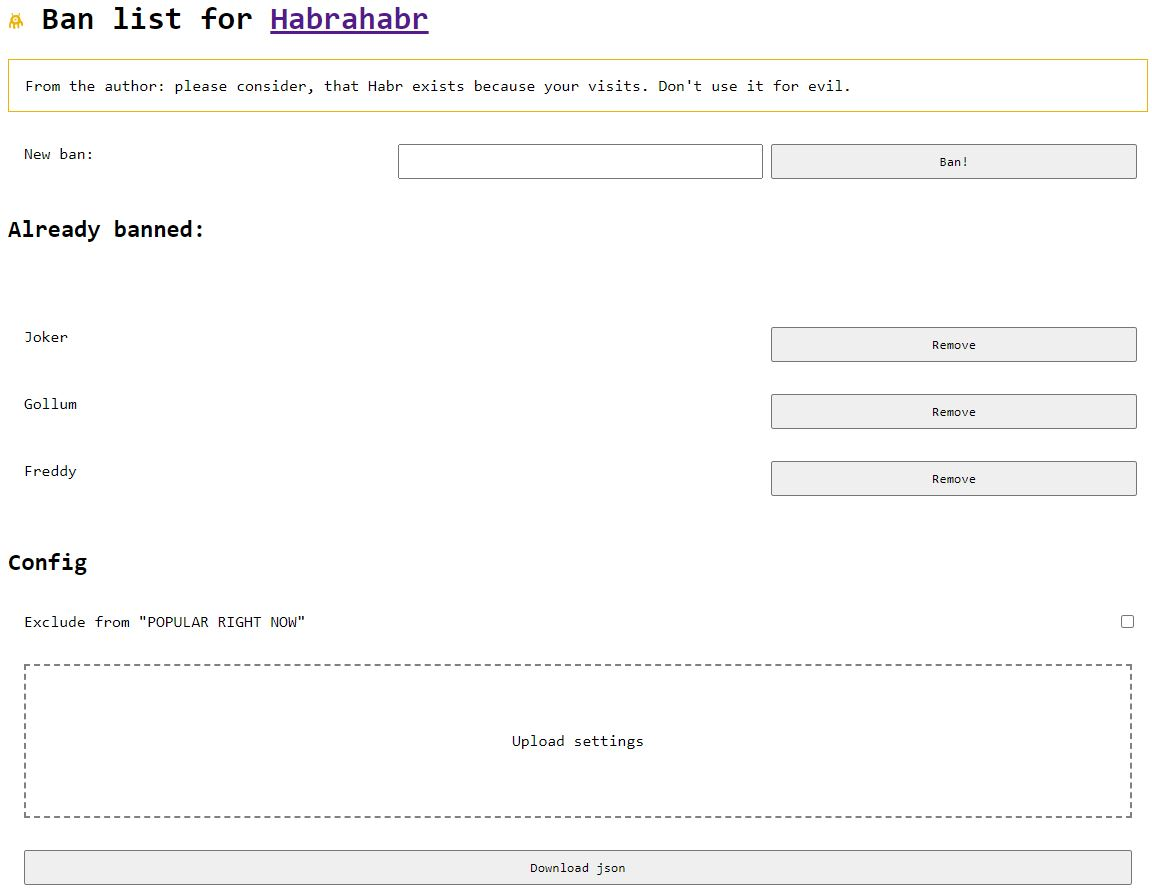
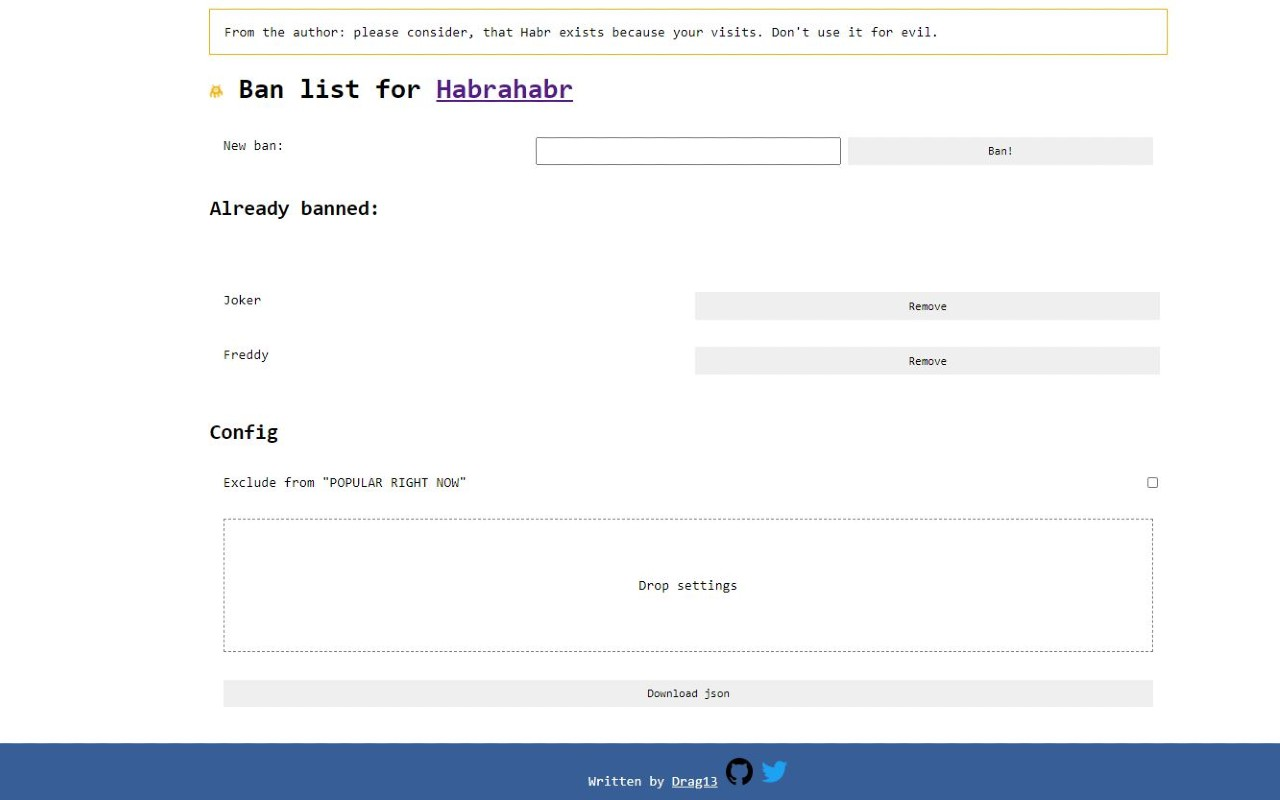
Add some responsive for the app

diff --git a/src/options.html b/src/options.html
@@ -26,14 +26,48 @@
             margin-left: auto;
             padding-top: 1em;
             padding-bottom: 1em;
-            padding-left: 1em;
             flex: 1;
+        }
+
+        .content {
+            padding: 0 1em;
+        }
+
+        .notice {
+            border: 1px solid #eeb30b;
         }
 
         .ban-list {
             list-style: none;
             text-align: left;
             padding-left: 0;
+        }
+
+        .ban-list>li {
+            padding-top: 2em;
+        }
+
+        .section {
+            padding: 1em;
+        }
+
+        .drop-area {
+            height: 150px;
+            border: 2px dashed gray;
+            display: flex;
+            align-items: center;
+            justify-content: center;
+        }
+
+        .footer {
+            text-align: center;
+            background-color: #375e97;
+            padding: 1em;
+            color: white;
+        }
+
+        .footer a {
+            color: white;
         }
 
         .btn {
@@ -48,10 +82,6 @@
             background-color: rgb(221 221 221);
         }
 
-        .full-width {
-            width: 100%;
-        }
-
         .grid {
             display: grid;
             grid-column-gap: 8px;
@@ -62,31 +92,7 @@
         }
 
         .two-columns {
-            grid-template-columns: 66.66% 33.33%;
-        }
-
-        .section {
-            padding: 1em;
-        }
-
-        .ban-list>li {
-            padding-top: 2em;
-        }
-
-        .drop-area {
-            height: 150px;
-            border: 2px dashed gray;
-            display: flex;
-            align-items: center;
-            justify-content: center;
-        }
-
-        .align-right {
-            text-align: right;
-        }
-
-        .notice {
-            border: 1px solid #eeb30b;
+            grid-template-columns: 50.0% 50.0%;
         }
 
         .icon {
@@ -95,15 +101,12 @@
             line-height: 0;
         }
 
-        .footer {
-            text-align: center;
-            background-color: #375e97;
-            padding: 1em;
-            color: white;
+        .align-right {
+            text-align: right;
         }
 
-        .footer a {
-            color: white;
+        .full-width {
+            width: 100%;
         }
     </style>
 </head>
@@ -111,41 +114,42 @@
 <body>
 
     <main class="main">
+        <div class="content">
+            <section class="section notice" id="notice">
+                From the author: please consider, that Habr exists because your visits. Don't use it for evil.
+            </section>
 
-        <section class="section notice" id="notice">
-            From the author: please consider, that Habr exists because your visits. Don't use it for evil.
-        </section>
+            <h1> <img src="./asset/i16.png" alt="logo"> Ban list for <a href="https://habr.com">Habrahabr</a></h1>
 
-        <h1> <img src="./asset/i16.png" alt="logo"> Ban list for <a href="https://habr.com">Habrahabr</a></h1>
+            <section class="section grid three-columns">
+                <label class="lbl" for="add">New ban:</label>
+                <input type="text" name="add" id="banname" />
+                <button class="btn" id="banBtn">Ban!</button>
+            </section>
 
-        <section class="section grid three-columns">
-            <label class="lbl" for="add">New ban:</label>
-            <input type="text" name="add" id="banname" />
-            <button class="btn" id="banBtn">Ban!</button>
-        </section>
+            <h2>Already banned:</h2>
 
-        <h2>Already banned:</h2>
+            <section class="section">
+                <ul class="ban-list"></ul>
+            </section>
 
-        <section class="section">
-            <ul class="ban-list"></ul>
-        </section>
+            <h2>Config</h2>
 
-        <h2>Config</h2>
+            <section class="section grid two-columns">
+                <label class="lbl" for="exlcude-pop-block">Exclude from "POPULAR RIGHT NOW"</label>
+                <div class="align-right">
+                    <input type="checkbox" name="exlcude-pop-block" id="exlcude-pop-block">
+                </div>
+            </section>
 
-        <section class="section grid two-columns">
-            <label class="lbl" for="exlcude-pop-block">Exclude from "POPULAR RIGHT NOW"</label>
-            <div class="align-right">
-                <input type="checkbox" name="exlcude-pop-block" id="exlcude-pop-block">
-            </div>
-        </section>
+            <section class="section">
+                <div class="drop-area" id="drop-area">Drop settings</div>
+            </section>
 
-        <section class="section">
-            <div class="drop-area" id="drop-area">Drop settings</div>
-        </section>
-
-        <section class="section">
-            <button class="btn full-width" id="save-config">Download json</button>
-        </section>
+            <section class="section">
+                <button class="btn full-width" id="save-config">Download json</button>
+            </section>
+        </div>
 
     </main>
 
